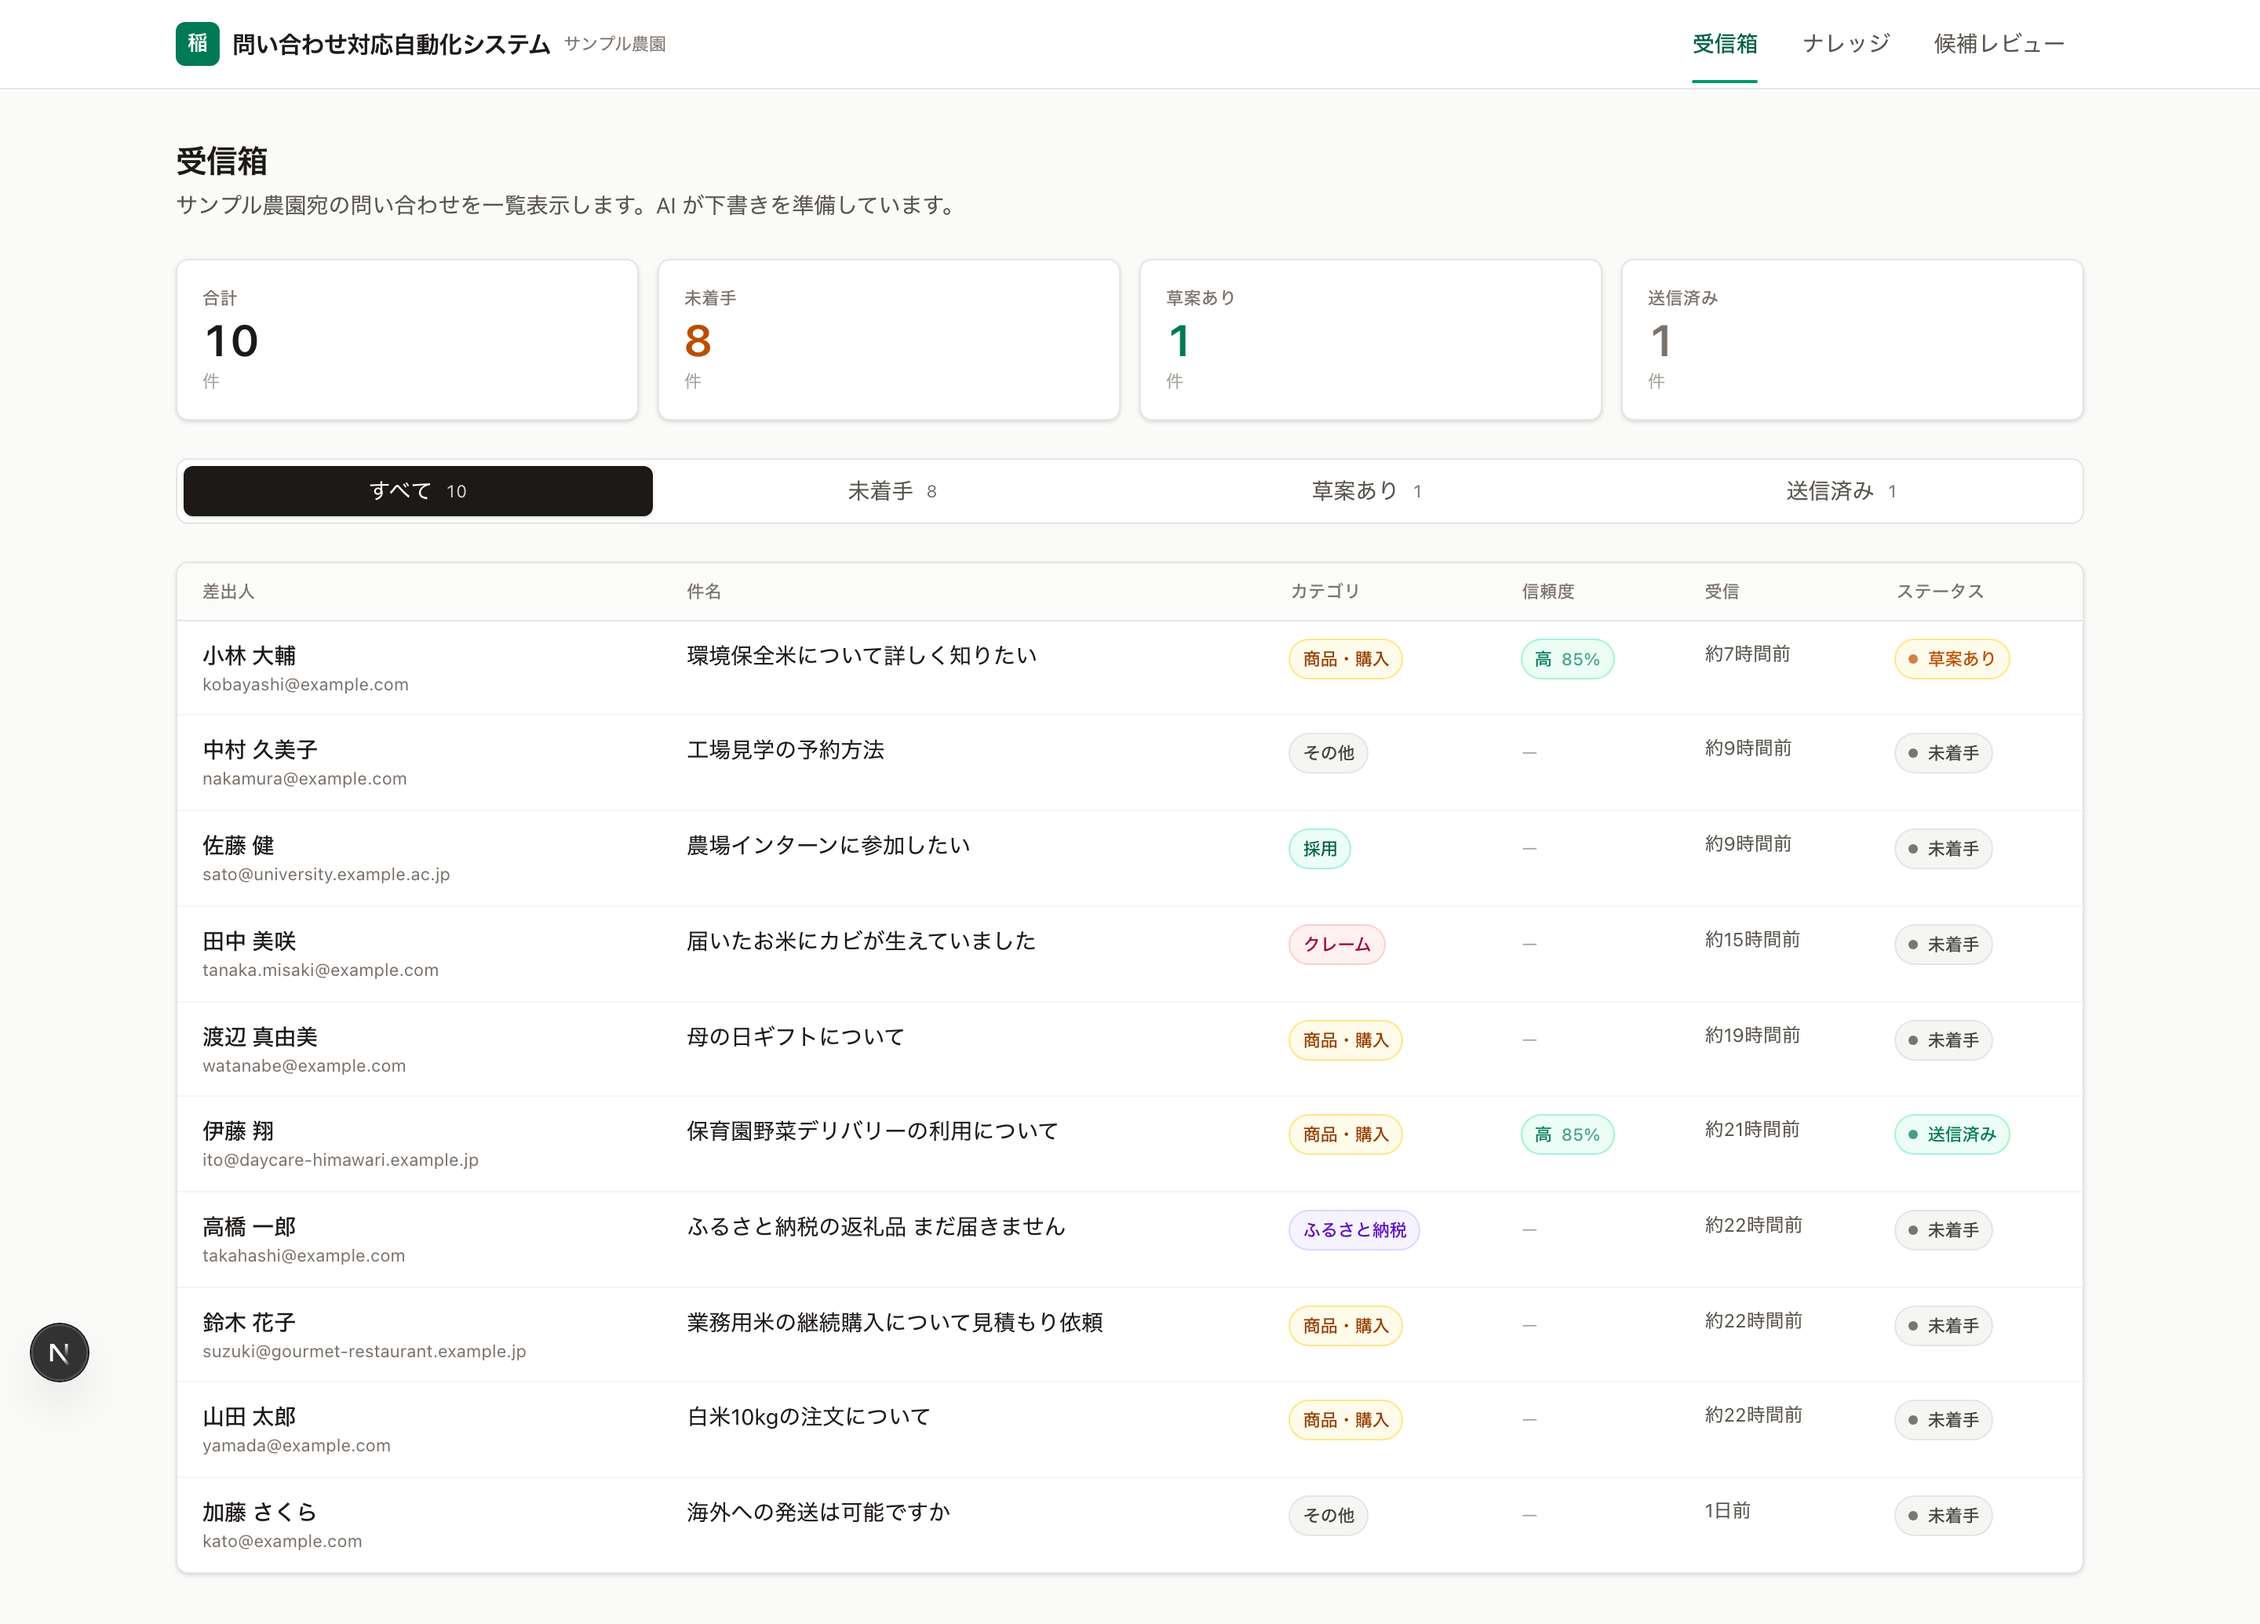
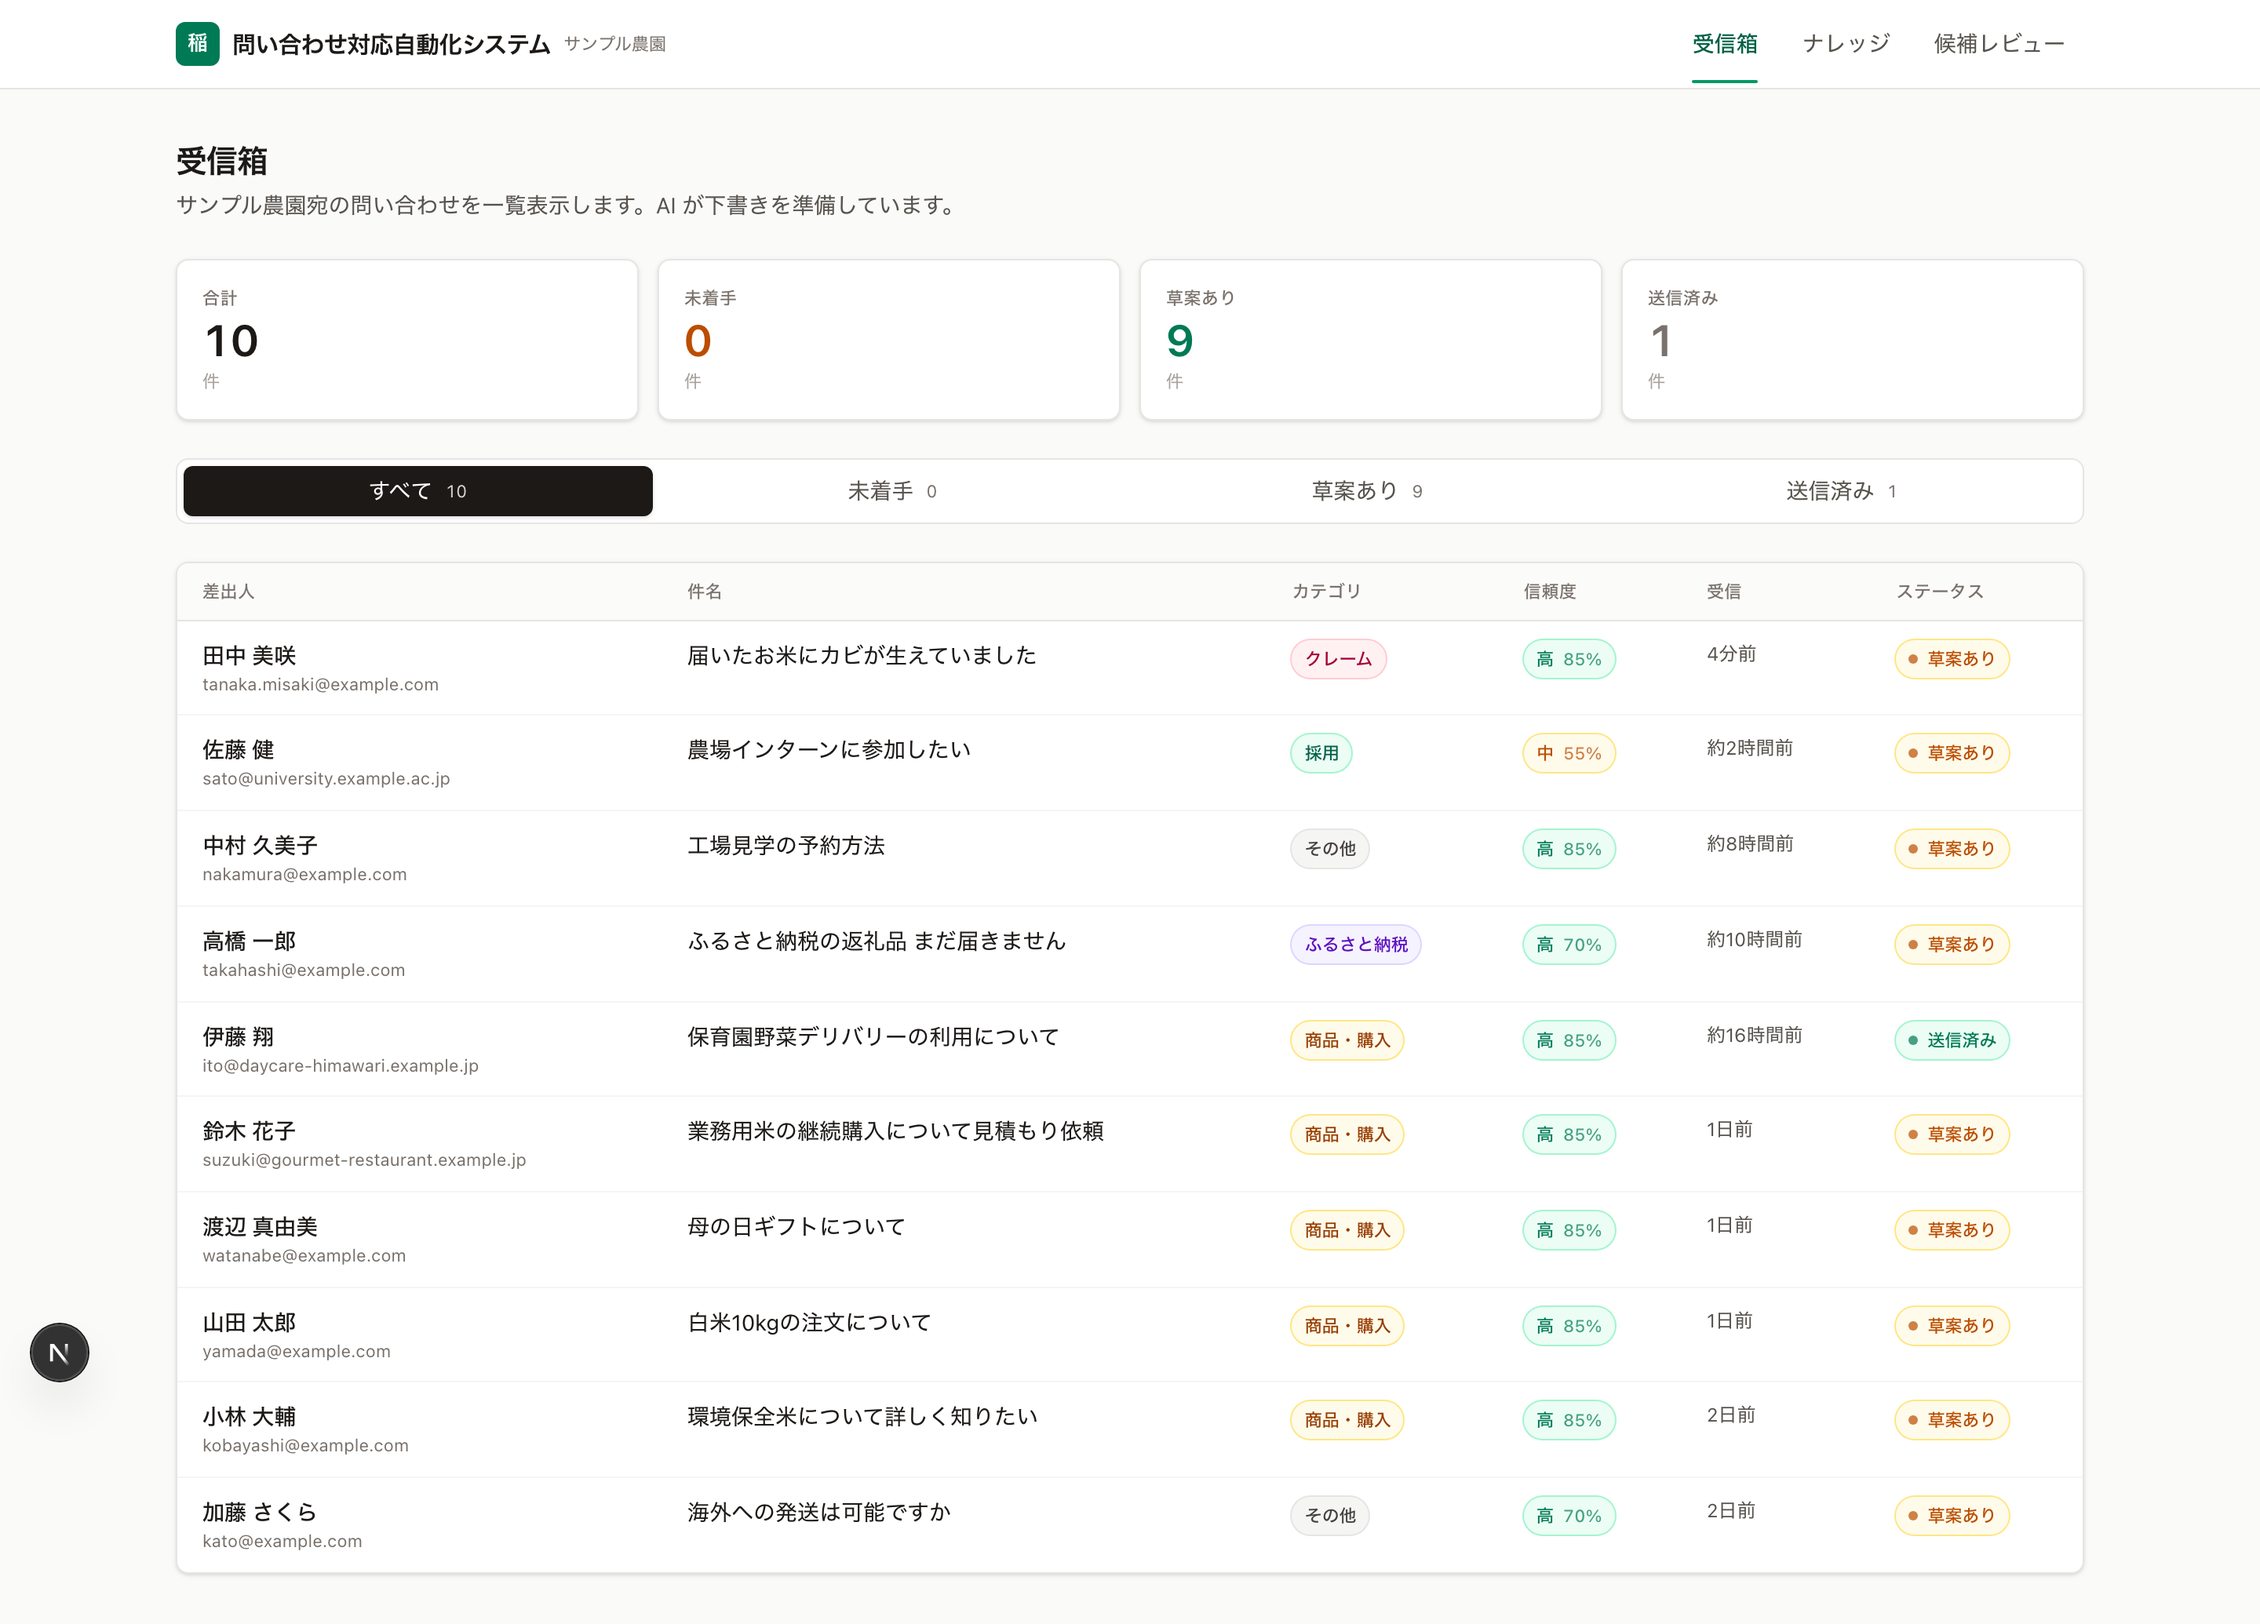
受信時に AI 草案を全件自動生成する仕様に変更
- prisma/seed.ts で各 inquiry 作成と同時に generateDraft を呼び DraftReply を作成
- 受信箱の全行に信頼度バッジが並び、優先順位付けが効く状態に
- OVERVIEW.md の文言を「届いた瞬間に自動で草案が組まれる」に修正

diff --git a/prisma/seed.ts b/prisma/seed.ts
@@ -1,6 +1,7 @@
 import "dotenv/config";
 import { PrismaClient } from "@prisma/client";
 import { PrismaBetterSqlite3 } from "@prisma/adapter-better-sqlite3";
+import { generateDraft } from "../src/lib/llm";
 
 const adapter = new PrismaBetterSqlite3({
   url: process.env.DATABASE_URL ?? "file:./prisma/dev.db",
@@ -281,8 +282,10 @@ async function main() {
     });
   }
 
+  const articles = await prisma.knowledgeArticle.findMany();
+
   for (const i of INQUIRIES) {
-    await prisma.inquiry.create({
+    const inq = await prisma.inquiry.create({
       data: {
         fromName: i.fromName,
         fromEmail: i.fromEmail,
@@ -292,11 +295,35 @@ async function main() {
         receivedAt: new Date(Date.now() - Math.random() * 1000 * 60 * 60 * 48),
       },
     });
+
+    const generated = await generateDraft(inq, articles);
+    await prisma.draftReply.create({
+      data: {
+        inquiryId: inq.id,
+        body: generated.body,
+        confidence: generated.confidence,
+        citedIds: JSON.stringify(generated.citedIds),
+        model: generated.model,
+        isLatest: true,
+      },
+    });
+    await prisma.inquiry.update({
+      where: { id: inq.id },
+      data: { status: "drafted" },
+    });
+    await prisma.auditLog.create({
+      data: {
+        inquiryId: inq.id,
+        action: "draft_generated",
+        detail: JSON.stringify({ model: generated.model, confidence: generated.confidence, source: "seed" }),
+      },
+    });
   }
 
   const inquiries = await prisma.inquiry.count();
+  const drafts = await prisma.draftReply.count();
   const knowledge = await prisma.knowledgeArticle.count();
-  console.log(`Seeded: ${CATEGORIES.length} categories, ${knowledge} knowledge articles, ${inquiries} inquiries`);
+  console.log(`Seeded: ${CATEGORIES.length} categories, ${knowledge} knowledge articles, ${inquiries} inquiries, ${drafts} drafts`);
 }
 
 main()

diff --git a/scripts/take-screenshots.js b/scripts/take-screenshots.js
@@ -15,8 +15,8 @@ const MOBILE_VP = { width: 390, height: 844 };       // iPhone 14 Pro 相当
 const DESKTOP_VP = { width: 1440, height: 900 };
 
 // === 撮影対象ページ ===
-const NEW_INQUIRY_ID = 'cmofizkjg000oymrdpweojvxc'; // 未送信（草案編集）
-const SENT_INQUIRY_ID = 'cmofizkjg000mymrd5qyujuqn'; // 送信済み
+const NEW_INQUIRY_ID = 'cmofjokls000goordhgl05z3n'; // 未送信（草案編集）— 白米10kg注文
+const SENT_INQUIRY_ID = 'cmofjokm6000yoord2ez8pbse'; // 送信済み — 保育園野菜デリバリー
 
 const PAGES = [
   // デスクトップ

diff --git a/docs/OVERVIEW.md b/docs/OVERVIEW.md
@@ -60,7 +60,7 @@ flowchart LR
 
 ![詳細・草案編集（デスクトップ）](screenshots/desktop-inquiry-detail.png)
 
-メールを開いた瞬間に Claude が登録ナレッジから関連情報を引き、返信文を組み立てます。
+メールが**届いた瞬間に** Claude が登録ナレッジから関連情報を引き、返信文を自動で組み立てます。担当者が受信箱を開いた時点で、すでに全件に草案が用意されている状態です。
 草案には **どのナレッジを引用したか** と **AI 自己評価の信頼度（高 / 中 / 低）** が必ず添えられ、根拠の裏取りなしに送ることはできません。
 そのままテキストエリアで自由に編集でき、気に入らなければ「再生成」ボタンで何度でもやり直せます。
 
